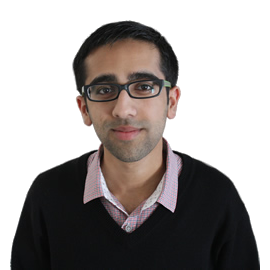
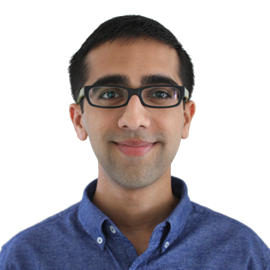
Updated profile pic. Added brief dev details in html source

diff --git a/index.html b/index.html
@@ -1,4 +1,4 @@
-<!doctype html>
+<!doctype html>
 <html lang="en">
 <head>
 	<meta charset="UTF-8">
@@ -28,6 +28,19 @@
 
 	<link rel="stylesheet" href="stylesheets/screen.css">
 </head>
+
+<!--
+	Hey you! Interested in how this site was created? Here's a brief overview:
+
+	Version Control: 	Git
+	Hosting:		GitHub
+	Stylesheet:		Sass with Compass
+	Task Runner:		Grunt
+	Icons:			Icomoon
+	Twitter:		TwitterFetcher.js
+-->
+
+
 
 <body>
     <nav class="nav">
